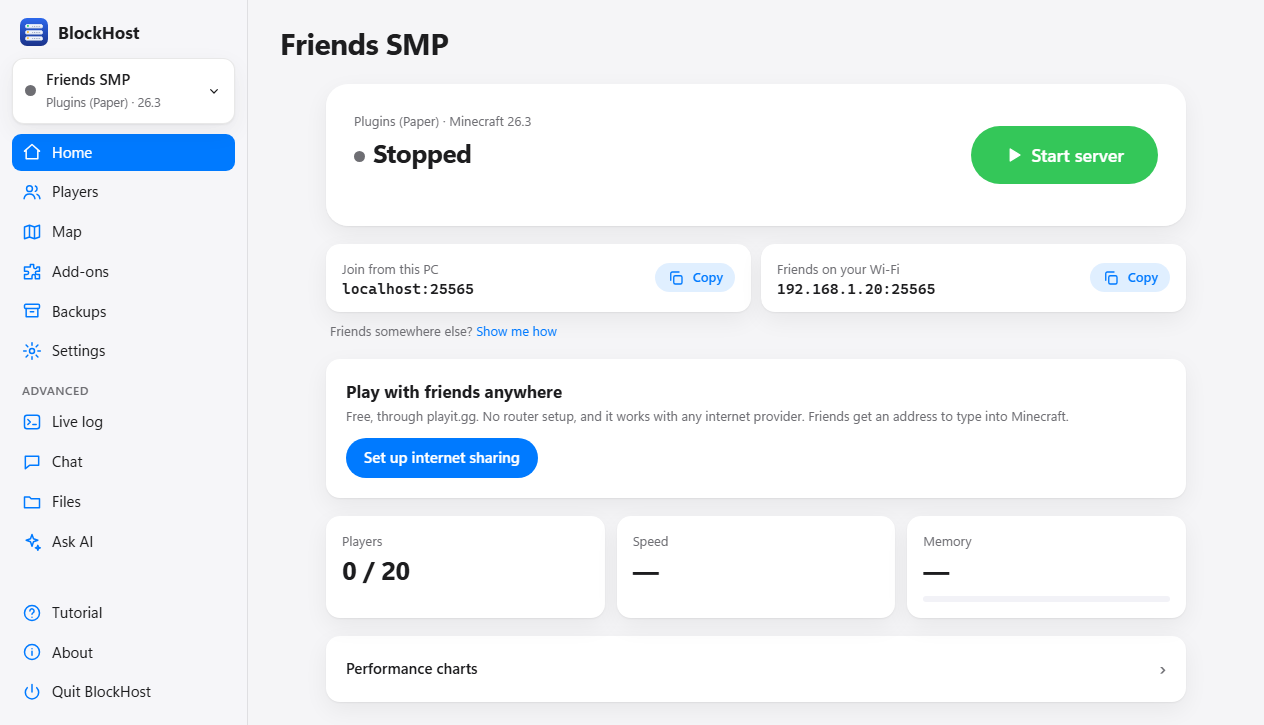
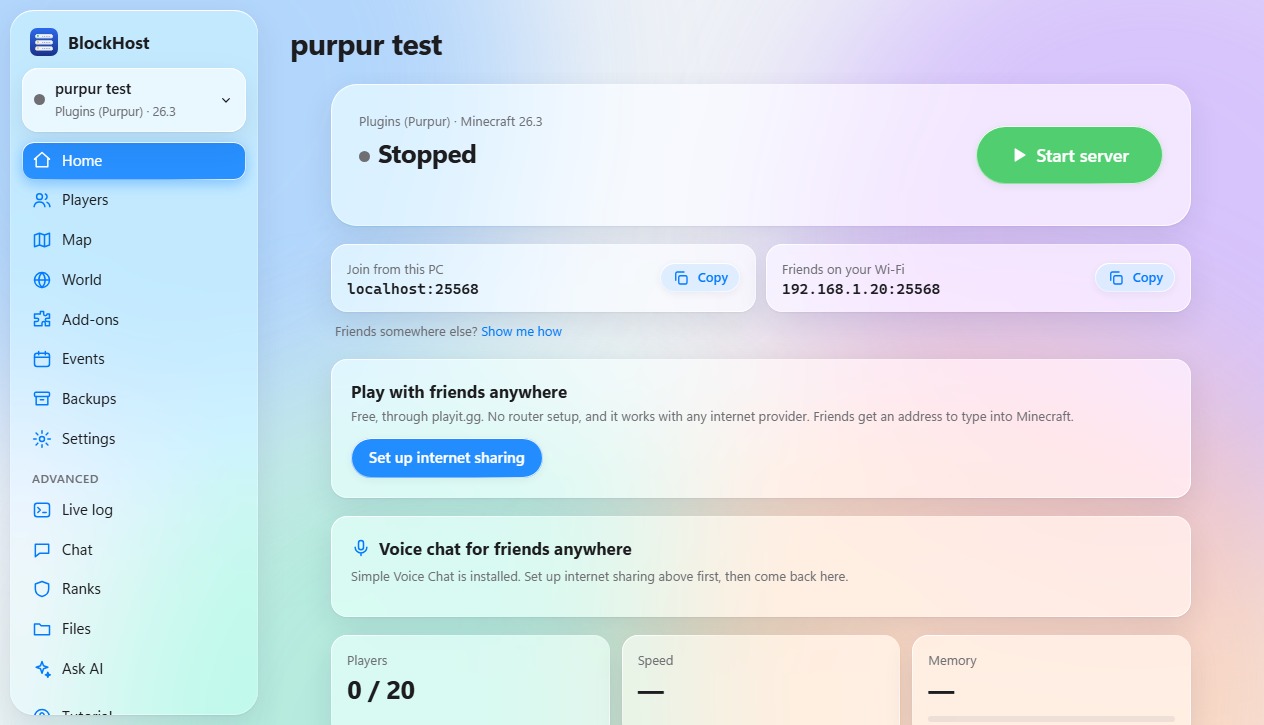
README: new screenshots and features for 2.2.0
Screenshots retaken with the Liquid Glass look, plus new World and Events shots.
The screenshot steps now use an example Wi-Fi address instead of the real one.

diff --git a/README.md b/README.md
@@ -17,10 +17,16 @@ Start and stop, add mods and plugins, invite friends, back up your world, see th
 - **Players** – admins, kicks, bans, whitelist, game modes, and a look inside anyone's inventory and ender chest.
 - **Live map** – a top-down map of your world with dots for online players, plus an optional BlueMap 3D view.
 - **Backups** – one click or on a schedule, checked after they are made, restored in one click.
+- **World tools** – test a seed on a hidden throwaway world and see what is near spawn, start a new world (the old one is kept), and pre-generate land with Chunky.
+- **Events and phone alerts** – run commands at a set time (drop parties, contests, reminders), and get a message on your phone through the free ntfy app when the server crashes or a friend joins.
+- **Ranks** – LuckPerms ranks and permissions with switches instead of commands.
+- **Problems in plain words** – Home lists trouble found in the log and how to fix it.
 - **Ask AI** – connect Gemini (free tier), Claude or ChatGPT to explain crashes, or describe a server ("a chill Fabric server for 4 friends") and let it pick the version and mods. Nothing runs or installs until you approve it.
-- **Everything else** – live log and console, chat, server settings in plain words, a file editor, performance charts, auto-restart after crashes, daily restarts with warnings, and a short animated tutorial.
+- **Everything else** – live log and console, chat, server settings in plain words, a file editor, performance charts, auto-restart after crashes, daily restarts with warnings, one-click voice chat setup, a tray icon that keeps running servers going, and a short animated tutorial.
+- **Liquid Glass look** – light and dark mode, glass that bends what is behind it, and calm animations (off when Windows "reduce motion" is on).
 
 <table>
+<tr><td><img src="docs/screenshots/world.png" alt="World: seed test"></td><td><img src="docs/screenshots/events.png" alt="Events and phone alerts"></td></tr>
 <tr><td><img src="docs/screenshots/addons.png" alt="Add-ons"></td><td><img src="docs/screenshots/map.png" alt="Map"></td></tr>
 <tr><td><img src="docs/screenshots/new-server.png" alt="Create a server"></td><td><img src="docs/screenshots/tutorial.png" alt="Tutorial"></td></tr>
 <tr><td><img src="docs/screenshots/players.png" alt="Players"></td><td><img src="docs/screenshots/ai.png" alt="Ask AI"></td></tr>
